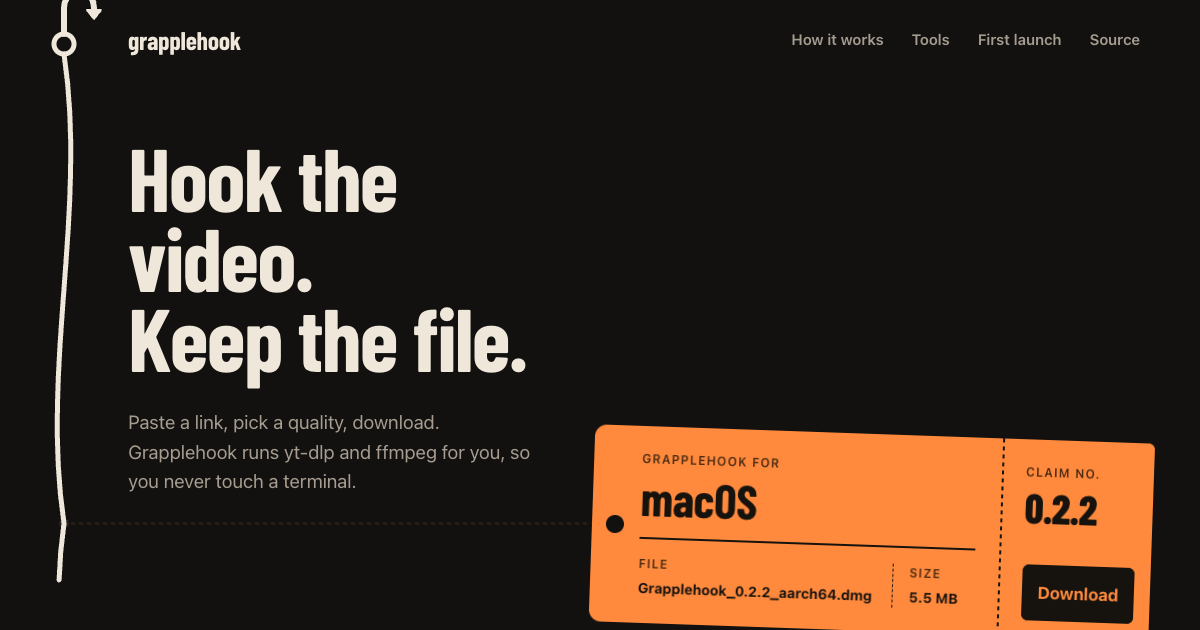
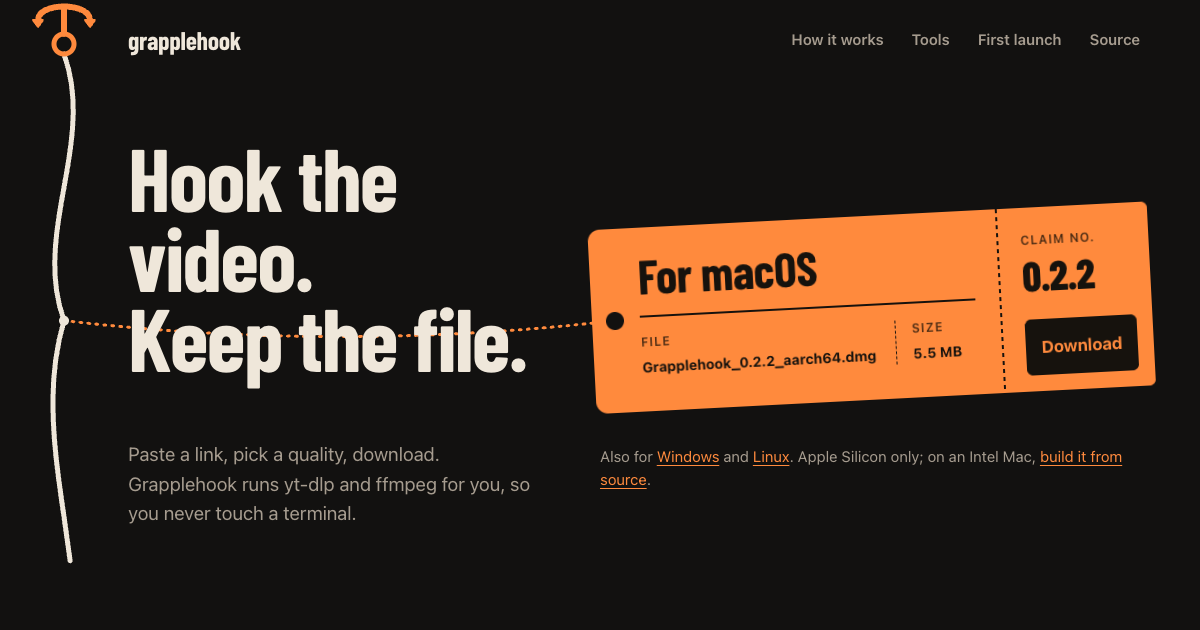
Keep the grapple hook inside the page edges (#2)
The tines' arch peaked above the page top, clipping the barbs, and on
phones (rope at x=20) the left tine sat off the left edge. Draw the arch
lower and narrow the tines to fit the rope gutter. Recapture og.png.

diff --git a/src/lib/Rope.svelte b/src/lib/Rope.svelte
@@ -19,6 +19,8 @@
   let drawn = $state(1);
 
   const EYE = 44;
+  // Tine half-width: 26px, narrower when the rope sits close to the left edge (phones).
+  const span = $derived(Math.min(26, x - 10));
   let still = false;
 
   function layout() {
@@ -123,10 +125,10 @@
       <circle class="knot" cx={x} cy={t.y} r="5" style:opacity={drawn * h >= t.y ? 1 : 0} />
     {/each}
   {/if}
-  <!-- The grapple, its two tines caught over the top edge of the page. -->
+  <!-- The grapple: two barbed tines, kept inside the page's top and left edges. -->
   <g class="hook">
-    <path d="M {x} {EYE - 10} V 6 M {x - 26} 10 C {x - 26} -10 {x + 26} -10 {x + 26} 10" />
-    <path class="barb" d="M {x - 26} 16 l -6 -8 h 12 z M {x + 26} 16 l -6 -8 h 12 z" />
+    <path d="M {x} {EYE - 10} V 8 M {x - span} 20 C {x - span} 2 {x + span} 2 {x + span} 20" />
+    <path class="barb" d="M {x - span} 27 l -5 -7 h 10 z M {x + span} 27 l -5 -7 h 10 z" />
     <circle cx={x} cy={EYE} r="10" />
   </g>
 </svg>
